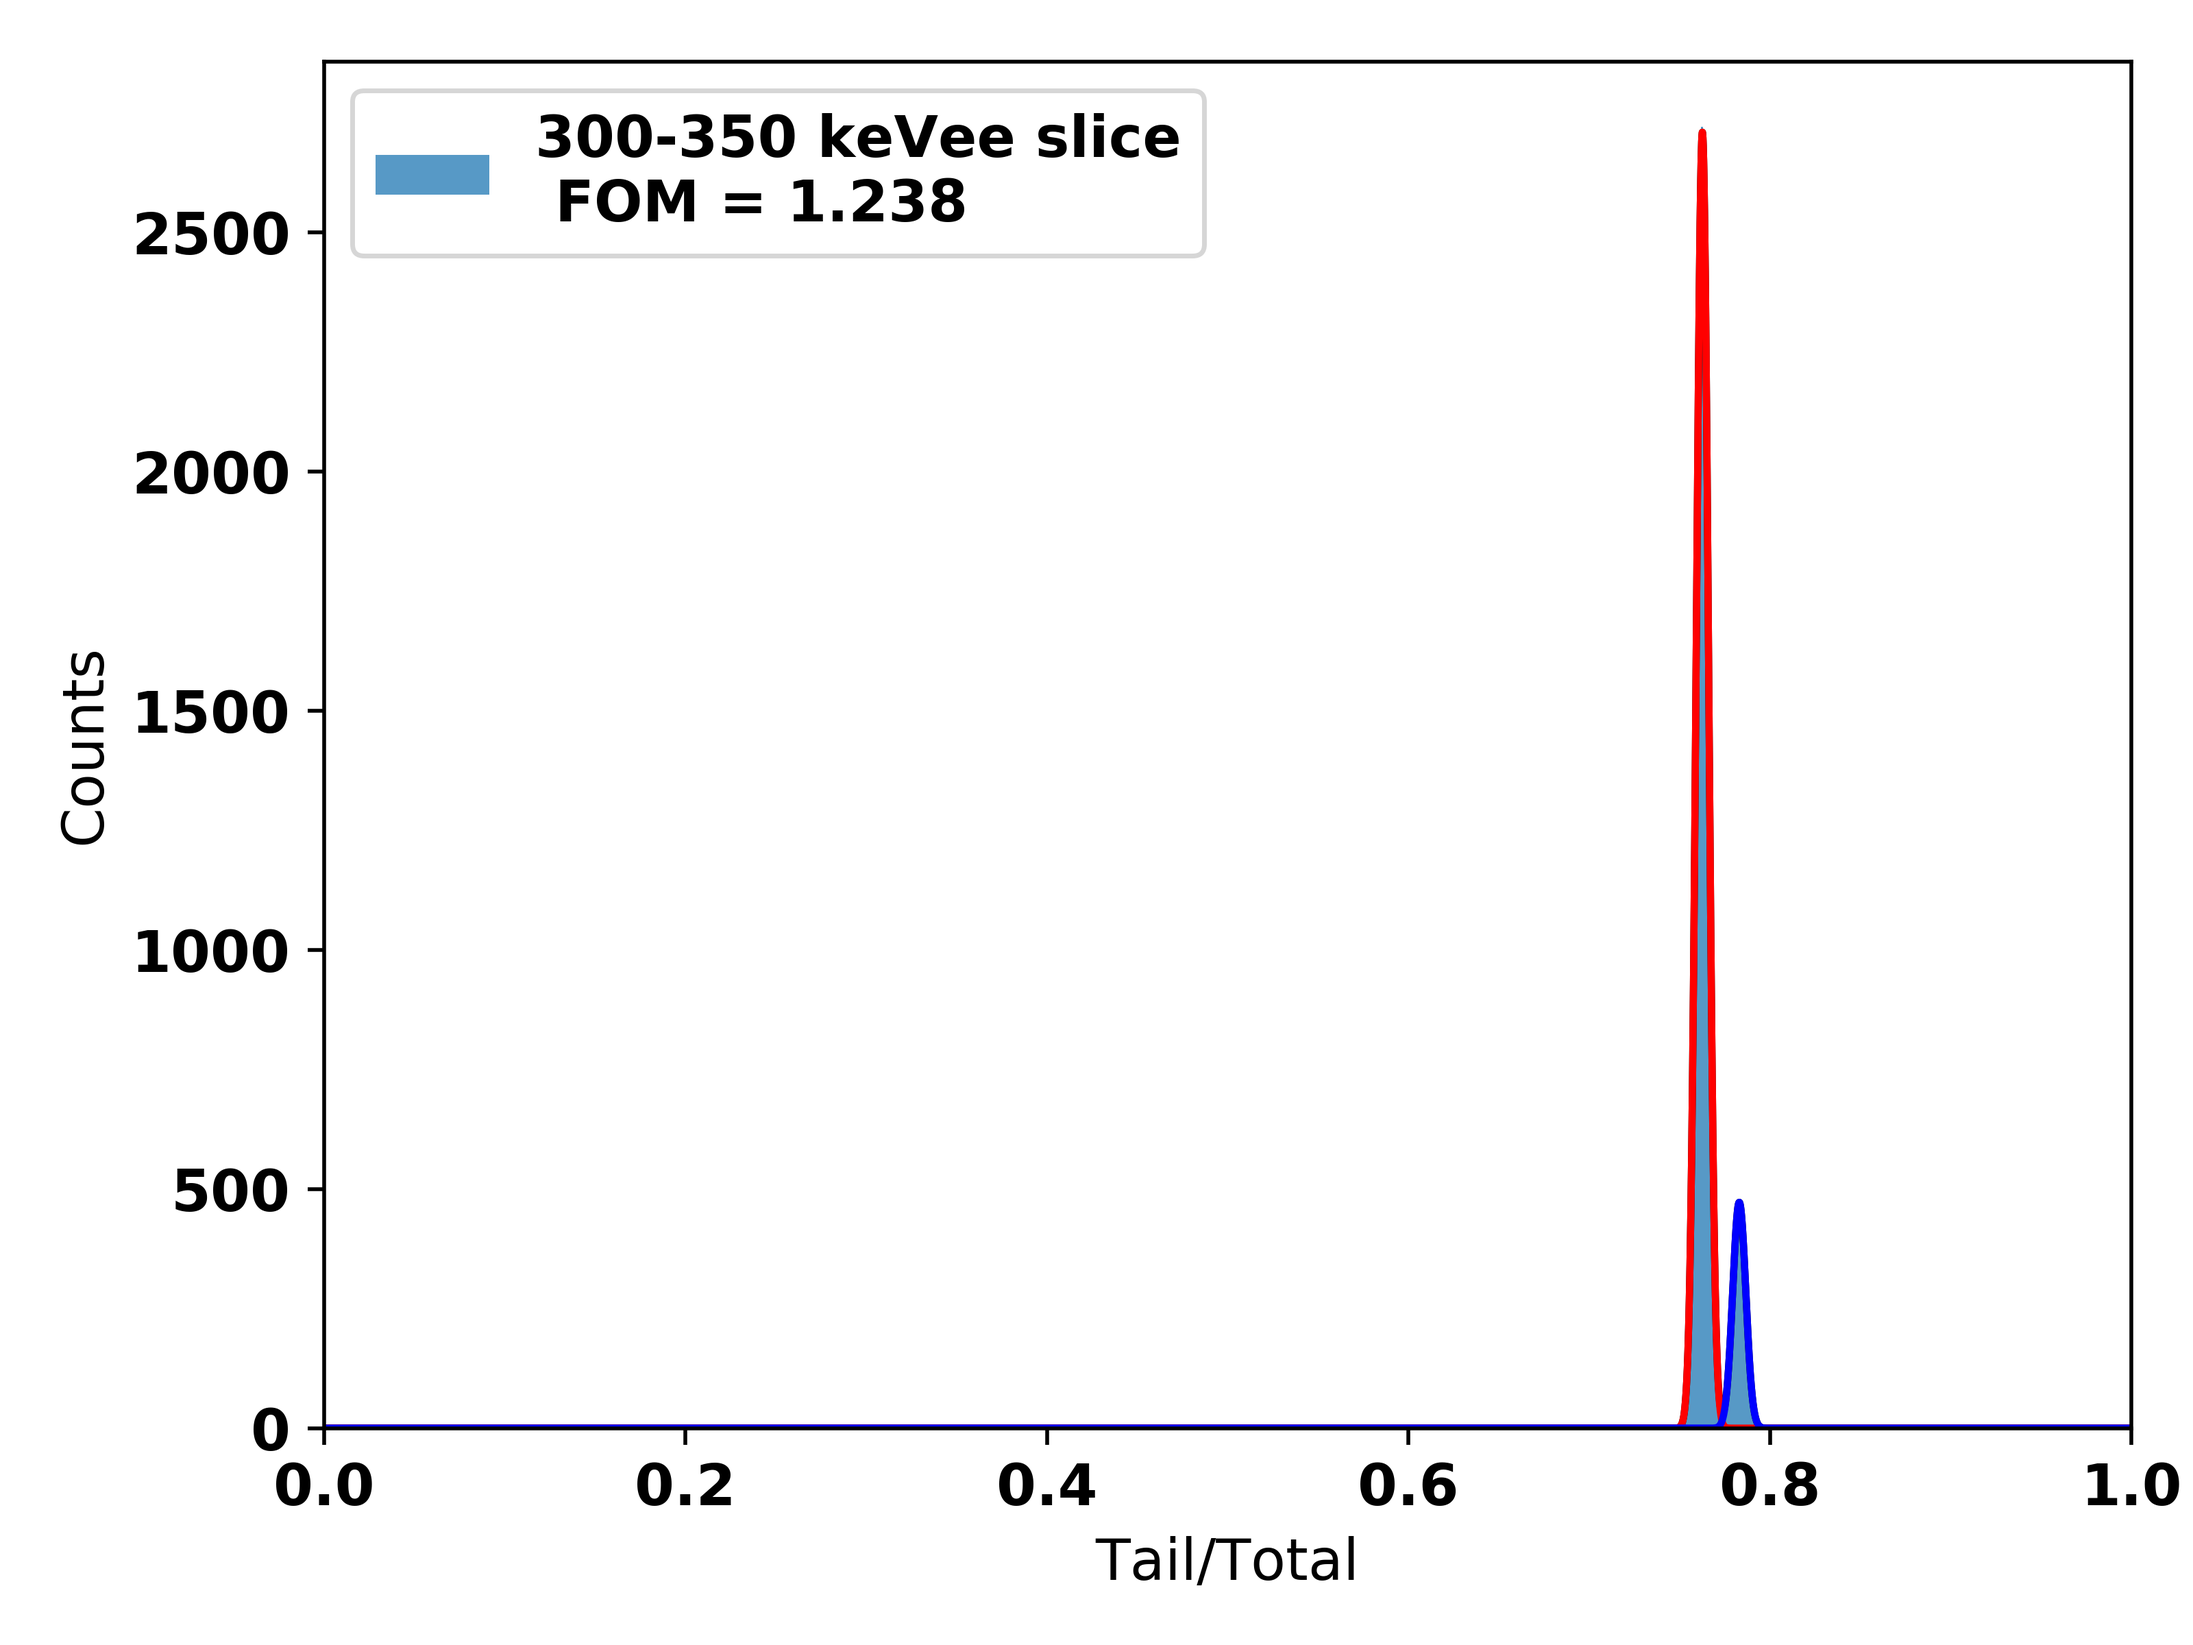
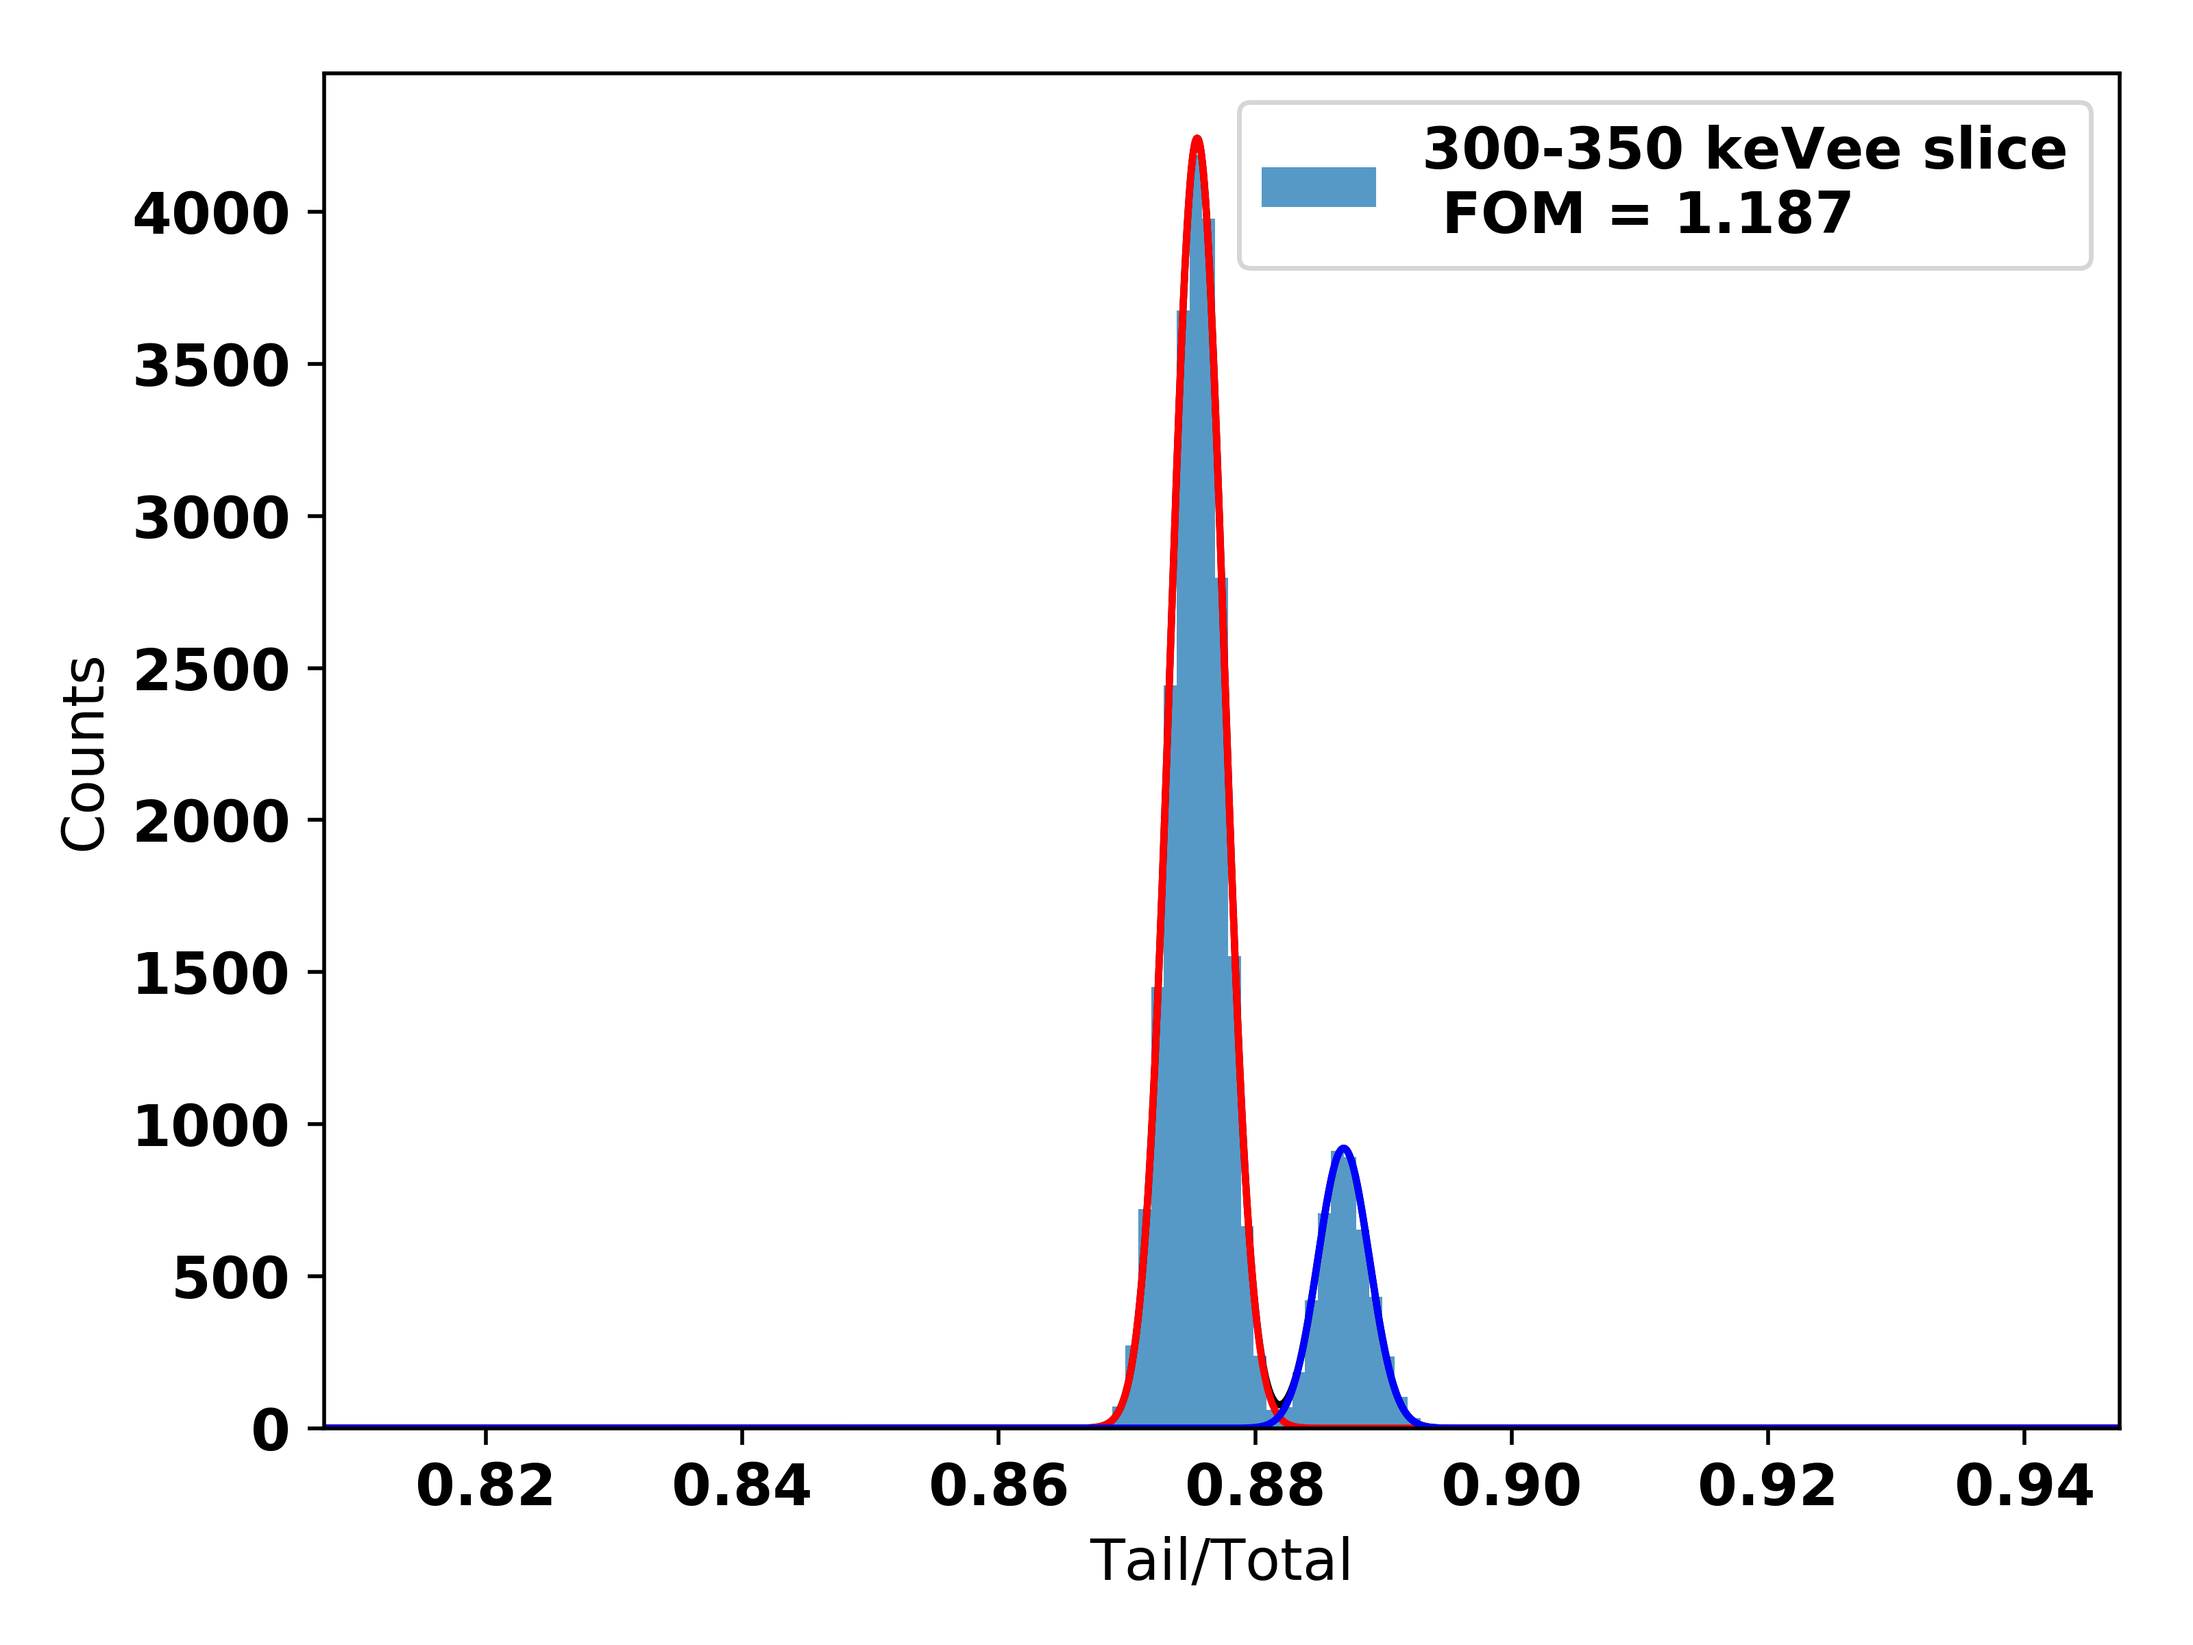
PSD and wrapper scripts have been automated

diff --git a/psd.py b/psd.py
@@ -10,54 +10,68 @@ import matplotlib.pyplot as plt
 import matplotlib.colors as mcolors
 from matplotlib.colors import LogNorm
 import numpy as np
-import heapq
 from scipy.optimize import leastsq
 from scipy.optimize import curve_fit
-from scipy.signal import argrelextrema
+from scipy.signal import argrelmax
 
 #data = X14
 
 #ph = data[0][:,0]
 #conv_factor = 0.18835
 
-data = B1cf
+#data = B1cf
 
-intg = data[0,:]
-ratio = data[3,:]
-conv_factor = 6.823
 
-# Convert to LO, electron energy equivalent
-intg = intg * conv_factor
-
-# Remove pulses above energy limit
 ergLimit = 1500
-clipped = np.where(intg < ergLimit)[0]
+
+def CalNClip(intg, ratio, conv_factor):
+    # Convert to LO
+    intconv = intg* conv_factor
 
 
-#tail = data[0][clipped,2]
-#total = data[0][clipped,3]
+    # Remove pulses above energy limit
+    ergLimit = 1500
+    clipped = np.where(intconv < ergLimit)[0]
 
 
-intg = intg[clipped]
-ratio = ratio[clipped]
-del(clipped)
-#del(tail, total)
-test = 0
+    intconv = intconv[clipped]
+    ratio = ratio[clipped]
+    
+       
+    del(clipped)
+    return [intconv, ratio]
 
-def PSD_hist(binnum=300):
+# Moving average
+def MovingAvg(spec):
+    N = 3
+    cumsum, moving_aves = [0], []
+    for i, x in enumerate(spec, 1):
+        cumsum.append(cumsum[i-1] + x)
+        if i>=N:
+            moving_ave = (cumsum[i] - cumsum[i-N])/N
+            #can do stuff with moving_ave here
+            moving_aves.append(moving_ave)
+    return moving_aves
+
+def PSD_hist(intg,ratio,binnum=300):
     plt.close()
 #    psd = plt.hist2d(ph,ratio, bins=(binnum,50*binnum ), cmap=plt.cm.jet,
  #                    norm=LogNorm())
     psd = plt.hist2d(intg,ratio, bins=(binnum,binnum ), cmap=plt.cm.jet
                     , norm=LogNorm())
+    
+    maxInd = np.where(psd[0] == np.amax(psd[0]))
+    distLoc = psd[2][maxInd[1][0]]
+    
     plt.colorbar()
     plt.xlim(0, ergLimit)
-    plt.ylim(0.8,1) 
+    plt.ylim(distLoc-0.05,distLoc+0.05) 
     plt.xlabel(r'Pulse Integral (keVee)')
     plt.ylabel(r'Tail/Total')
+    return distLoc
 
 def FOM_plot(pi, ratio):
-    fomvecs = PSD_ergslice(pi,1,ratio, plot=0)
+    fomvecs = PSD_ergslice(pi,ratio, plot=0)
     erg = fomvecs[0]
     fom = fomvecs[1]
     
@@ -80,7 +94,7 @@ def FOM_plot(pi, ratio):
 
     
 
-def PSD_ergslice( pi, cal, ratio, ergbin=50, maxerg = 1000, plot=1 ):
+def PSD_ergslice( pi, ratio, ergbin=50, cal=1,  maxerg = 1000, plot=1 ):
     
     plt.close('all')
     # Convert pulse integral (or height, I guess) to electron equivalent erg
@@ -92,7 +106,7 @@ def PSD_ergslice( pi, cal, ratio, ergbin=50, maxerg = 1000, plot=1 ):
     ratio = ratio[sort]
     
     # Create vector of bin edge ends
-    ergbin = np.arange(0,1000+ergbin,ergbin)
+    ergbin = np.arange(0,maxerg+ergbin,ergbin)
     
     # Number of energy bins
     ergBinNum=len(ergbin)-1
@@ -100,6 +114,8 @@ def PSD_ergslice( pi, cal, ratio, ergbin=50, maxerg = 1000, plot=1 ):
     # Initialize FOM vector
     ergvec = np.zeros(ergBinNum)
     fomvec = np.zeros(ergBinNum)
+    locmaxvec = np.zeros((ergBinNum,2))
+    locmaxamp = np.zeros((ergBinNum,2))
     
     # Perform plotting for each energy bin
     for i in range(ergBinNum):
@@ -120,7 +136,7 @@ def PSD_ergslice( pi, cal, ratio, ergbin=50, maxerg = 1000, plot=1 ):
         
         
         xSmooth = np.arange(lowerRatio,upperRatio, 1e-5)
-        binEdges = np.arange(lowerRatio,upperRatio, (upperRatio-lowerRatio)/binNum)
+        binEdges = np.linspace(lowerRatio,upperRatio, binNum)
         
         ratioHist = np.histogram(binRatio, bins=binEdges)[0]
         
@@ -131,17 +147,38 @@ def PSD_ergslice( pi, cal, ratio, ergbin=50, maxerg = 1000, plot=1 ):
         # Fit a double Gaussian to the slice
         
         # Find local maxima
-        locmax = argrelextrema(ratioHist, np.greater)       
+        smoothedratioHist = np.array(MovingAvg(ratioHist))
+        locmax = argrelmax(smoothedratioHist)
+        '''
+        xg = np.argmax(smoothedratioHist)+3
         
-        xg = locmax[0][0]
-        xn = locmax[0][1]
-               
+        locmaxvec[i] = locmax[0][0]
+        
+        try:
+            xn = locmax[0][np.argmin(  np.abs(locmax[0] - xg ) ) +1]+3
+        except:
+            xn = xg+13
+        '''
+        
+        
+        xg = locmax[0][0]+1
+        try:
+            xn = locmax[0][1]+1
+        except:
+            xn = xg+13
+        
         x01 = centers[xg]
         x02 = centers[xn]
+        
         a1 = ratioHist[xg]
         a2 = ratioHist[xn]
         
-        print(str(i) + ' ' + str(x01) + ' ' +str(x02))
+        locmaxvec[i][0] = x01
+        locmaxvec[i][1] = x02
+        locmaxamp[i][0] = a1
+        locmaxamp[i][1] = a2
+
+        print(str(upperErg/100) + ' ' + str(x01) + ' ' +str(x02))
         
         
         '''
@@ -152,8 +189,8 @@ def PSD_ergslice( pi, cal, ratio, ergbin=50, maxerg = 1000, plot=1 ):
         x01 = centers[np.argmax(ratioHist)]
         x02 = 0.8891
         '''
-        sigma1 = 0.01
-        sigma2 = 0.01
+        sigma1 = 0.002
+        sigma2 = 0.002
         
         # Fit double gaussian
         popt, pcov = curve_fit(_2gaussian, centers, ratioHist,   \
@@ -186,7 +223,7 @@ def PSD_ergslice( pi, cal, ratio, ergbin=50, maxerg = 1000, plot=1 ):
             plt.ylabel(r'Counts')
             plt.legend()
             plt.tight_layout()
-            plt.xlim(0,1)
+            plt.xlim(x01-0.07,x01+0.07)
             plt.savefig('PSD_'+str(lowerErg)+'_'+str(upperErg), dpi=500)
 
     return ergvec, fomvec

diff --git a/wrapper.py b/wrapper.py
@@ -1,0 +1,48 @@
+#!/usr/bin/env python2
+# -*- coding: utf-8 -*-
+"""
+Created on Fri Dec  6 11:00:35 2019
+
+@author: giha
+"""
+
+from loader import DataLoad
+from bar import Bar
+from edgeCal import EdgeCal
+from psd import CalNClip, MovingAvg, PSD_hist, FOM_plot,PSD_ergslice
+import matplotlib.pyplot as plt
+'''
+#X17 = DataLoad('D:\\X17data.p')
+X18 = DataLoad('D:\\X18data-0-20-370.p')
+#X19 = DataLoad('D:\\X19data.p')
+'''
+'''
+X20 = DataLoad('/media/giha/DATA/X20data.p')
+X21 = DataLoad('/media/giha/DATA/X21data.p')
+X22 = DataLoad('/media/giha/DATA/X22data.p')
+'''
+# Perform bar analysis
+B1cs1 = Bar(X20[0],X20[1])
+B2cs1 = Bar(X20[2],X20[3])
+
+B1cf = Bar(X21[0],X21[1])
+B2cf = Bar(X21[2],X21[3])
+
+B1cs2 = Bar(X22[0],X22[1])
+B2cs2 = Bar(X22[2],X22[3])
+
+# Energy calibration
+B11 = EdgeCal(B1cs1[0,:], histLabel='B11', xCal=0, integral = True)
+B12 = EdgeCal(B1cs2[0,:], histLabel='B12', xCal=0, integral = True)
+B21 = EdgeCal(B2cs1[0,:], histLabel='B21', xCal=0, integral = True)
+B22 = EdgeCal(B2cs2[0,:], histLabel='B22', xCal=0, integral = True)
+
+# Evaluate PSD
+B1psd = CalNClip(B1cf[0,:],B1cf[3,:], (B11[0]+B12[0])/2 )
+B1fom = FOM_plot(B1psd[0], B1psd[1] )
+plt.savefig('/home/giha/Figures/B1psd.png',dpi =200 )
+
+
+B2psd = CalNClip(B2cf[0,:],B2cf[3,:], (B21[0]+B22[0])/2 )
+B2fom = FOM_plot(B2psd[0], B2psd[1] )
+plt.savefig('/home/giha/Figures/B2psd.png',dpi =200 )

diff --git a/the_quickness.py b/the_quickness.py
@@ -9,10 +9,17 @@ Short script that reads my data in for debugging my bar PSD stuff
 from loader import DataLoad
 from bar import Bar
 from edgeCal import EdgeCal
-
+'''
 #X17 = DataLoad('D:\\X17data.p')
 X18 = DataLoad('D:\\X18data-0-20-370.p')
 #X19 = DataLoad('D:\\X19data.p')
+'''
+'''
+X17 = DataLoad('/media/giha/DATA/X17data.p')
+X18 = DataLoad('/media/giha/DATA/X18data-0-20-370.p')
+X19 = DataLoad('/media/giha/DATA/X19data.p')
+'''
+X18 = DataLoad('/media/giha/DATA/X18data-0-40-370.p')
 
 B1cs1 = Bar(X17[0],X17[1])
 B2cs1 = Bar(X17[2],X17[3])

diff --git a/edgeCal.py b/edgeCal.py
@@ -133,7 +133,7 @@ def EdgeCal(spec, measTime = 1800, src = 'cs', histLabel='', xCal=0, integral = 
     
     
     # Normalize spectrum to edge max
-    specHist = specHist / localmax
+    #specHist = specHist / localmax
 
     #plt.close()
     #plt.figure()
